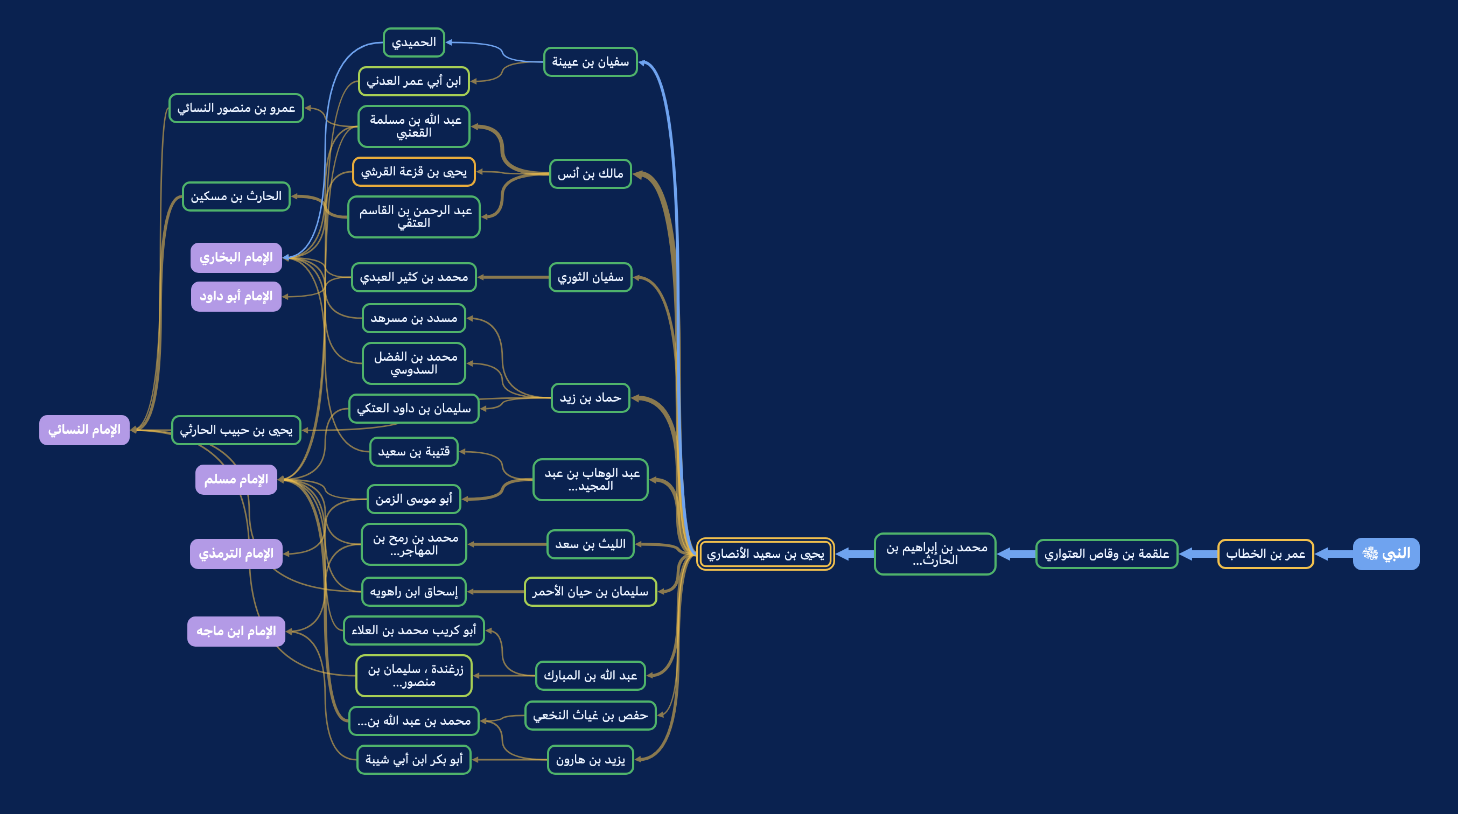
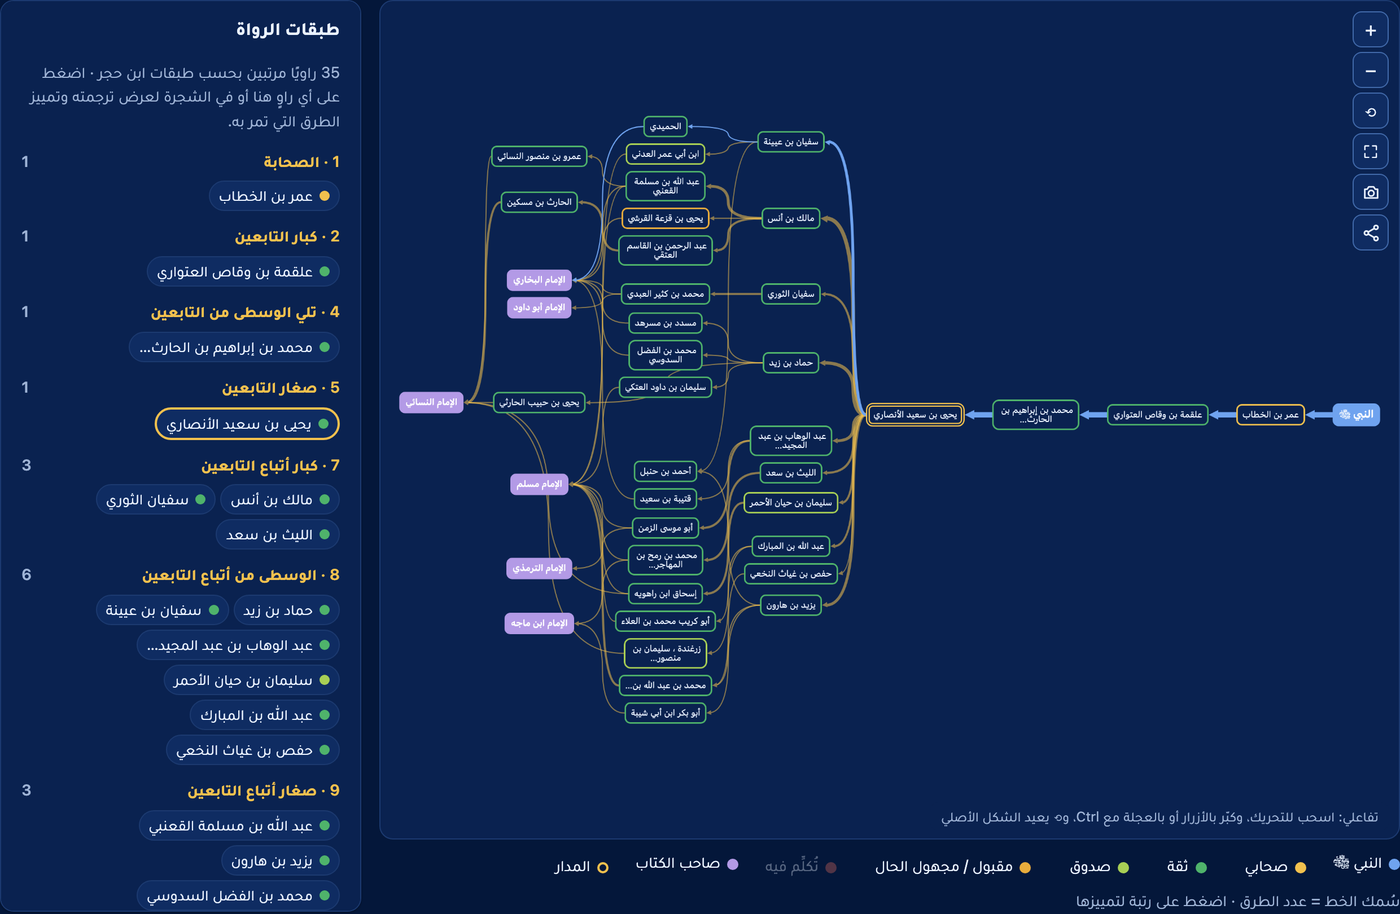
صفحة الهبوط: المزايا في ثلاث مجموعات بالمزايا الجديدة، ومثال حي لأحكام المحدثين، وتحديث المنهج والمصادر والأرقام، وصورة الشجرة بطبقات الرواة، وأصحاب الكتب التسعة في الرسمة

Changed region(s): [[0.0, 0.0, 1.0, 1.0], [0.6143, 0.8907, 1.0, 1.0], [0.9521, 0.0, 1.0, 0.2764]]

diff --git a/site/index.html b/site/index.html
@@ -29,6 +29,7 @@
       <a href="./" class="brand"><svg viewBox="0 0 32 32" aria-hidden="true"><path d="M16 8 8 13M16 8l8 5M8 19l-3 5M8 19l8 5M24 19l-8 5M24 19l3 5"/><circle cx="16" cy="5" r="3"/><circle cx="8" cy="16" r="3"/><circle cx="24" cy="16" r="3"/><circle cx="5" cy="27" r="3"/><circle cx="16" cy="27" r="3"/><circle cx="27" cy="27" r="3"/></svg><span>نور السنة</span></a>
       <nav class="links">
         <a href="#features">المزايا</a>
+        <a href="#grades">الأحكام</a>
         <a href="#how">طريقة الاستخدام</a>
         <a href="#method">المنهج</a>
         <a href="#contact">تواصل</a>
@@ -61,8 +62,8 @@
             <path d="M110 320 C110 350 50 350 50 380"/><path d="M110 320 C110 350 130 350 130 380"/>
             <path d="M210 320 V380"/>
             <path d="M310 320 C310 350 290 350 290 380"/><path d="M310 320 C310 350 370 350 370 380"/>
-            <path d="M50 410 C50 425 130 425 130 436"/><path d="M130 410 V436"/><path d="M210 410 C210 425 130 425 130 436"/>
-            <path d="M290 410 V436"/><path d="M370 410 C370 425 290 425 290 436"/>
+            <path d="M50 410 V436"/><path d="M130 410 V436"/><path d="M210 410 V436"/>
+            <path d="M290 410 V436"/><path d="M370 410 V436"/>
           </g>
           <g class="nodes">
             <rect class="n nabi" x="160" y="14" width="100" height="30" rx="10"/><text x="210" y="34">النبي ﷺ</text>
@@ -73,8 +74,7 @@
             <rect class="n" x="260" y="380" width="60" height="30" rx="10"/><rect class="n" x="340" y="380" width="60" height="30" rx="10"/>
           </g>
           <g class="imams">
-            <rect x="85" y="436" width="90" height="22" rx="8"/><text x="130" y="452">البخاري</text>
-            <rect x="245" y="436" width="90" height="22" rx="8"/><text x="290" y="452">مسلم</text>
+            <rect x="20" y="436" width="380" height="22" rx="8"/><text x="210" y="452">أصحاب الكتب التسعة</text>
           </g>
         </svg>
       </div>
@@ -83,7 +83,7 @@
       <div><b data-k="hadith">62,978</b><span>حديثًا في الكتب التسعة</span></div>
       <div><b data-k="chains">84,817</b><span>إسنادًا مُحلَّلًا</span></div>
       <div><b data-k="narrators">8,671</b><span>راويًا مترجَمًا</span></div>
-      <div><b data-k="companions">825</b><span>صحابيًا وصحابية</span></div>
+      <div><b data-k="companions">817</b><span>صحابيًا وصحابية</span></div>
     </div>
   </section>
 
@@ -91,16 +91,30 @@
     <div class="wrap">
       <h2>ماذا يقدّم لك «نور السنة»؟</h2>
       <p class="lede">كل ما يحتاجه طالب العلم لفهم إسناد الحديث، في مكان واحد، بنقرة واحدة.</p>
+
+      <h3 class="group"><span>1</span>الحديث وطرقه</h3>
       <div class="cards">
-        <article class="card"><div class="ic">🌳</div><h3>شجرة الرواة</h3><p>لكل حديث شجرة تفاعلية من النبي ﷺ إلى أصحاب الكتب التسعة، تجمع كل طرقه فيها.</p></article>
-        <article class="card"><div class="ic">🎯</div><h3>المدار والمتابعات والشواهد</h3><p>يُظهر الراوي الذي تلتقي عنده الطرق ثم تتفرع، ويميّز المتابعات عن الشواهد.</p></article>
-        <article class="card"><div class="ic">📜</div><h3>تراجم الرواة</h3><p>رتبة كل راوٍ عند ابن حجر والذهبي، وطبقته ونسبه ووفاته وبلده، وشيوخه وتلاميذه في الكتب التسعة.</p></article>
-        <article class="card"><div class="ic">⚖</div><h3>رجال الأسانيد</h3><p>وصف كل إسناد بحسب رتب رجاله عند ابن حجر، مع التنبيه على من وُصف بالتدليس أو الاختلاط.</p></article>
-        <article class="card"><div class="ic">📚</div><h3>تخريج الحديث</h3><p>روايات الحديث في كتب السنة وشواهده عن صحابة آخرين، بحسب تخريج برنامج جامع خادم الحرمين الشريفين.</p></article>
-        <article class="card"><div class="ic">📊</div><h3>مؤشرات وإحصاءات</h3><p>الأكثر رواية، وأشهر الأسانيد، وأكثر الرواة مدارًا، وثلاثيات البخاري، وغيرها.</p></article>
+        <a class="card" href="app.html?v=ee47c1b3c5#/h/b1"><div class="ic">🌳</div><h3>شجرة الرواة</h3><p>لكل حديث شجرة تفاعلية من النبي ﷺ إلى أصحاب الكتب التسعة، تجمع كل طرقه، وتُعرض بملء الشاشة، وتُحفظ صورةً بنصّ الحديث أو تُشارك برابطها.</p></a>
+        <a class="card" href="app.html?v=ee47c1b3c5#/h/b1"><div class="ic">🎯</div><h3>المدار والمتابعات والشواهد</h3><p>يُظهر الراوي الذي تلتقي عنده الطرق ثم تتفرع، ويميّز المتابعات عن الشواهد، مع تخريج الحديث في كتب السنة الأخرى.</p></a>
+        <a class="card" href="app.html?v=ee47c1b3c5#/turuq"><div class="ic">🧭</div><h3>الأحاديث الأكثر طرقًا</h3><p>ترتيب أحاديث الكتب التسعة بعدد أسانيدها ومواضعها وصحابتها وانتشارها في الكتب، وأحاديث كل مدار.</p></a>
+      </div>
+
+      <h3 class="group"><span>2</span>الرواة</h3>
+      <div class="cards">
+        <a class="card" href="app.html?v=ee47c1b3c5#/narrators"><div class="ic">📜</div><h3>تراجم الرواة</h3><p>رتبة كل راوٍ عند ابن حجر والذهبي، وطبقته ونسبه ووفاته وبلده، وشيوخه وتلاميذه ومروياته في الكتب التسعة.</p></a>
+        <a class="card" href="app.html?v=ee47c1b3c5#/h/b1"><div class="ic">🪜</div><h3>طبقات الرواة</h3><p>بجانب شجرة كل حديث لوحةٌ ترتّب رواته على طبقات ابن حجر، من الصحابة إلى شيوخ الأئمة، وتميّز الطرق التي تمر بكل راوٍ.</p></a>
+        <a class="card" href="app.html?v=ee47c1b3c5#/explore"><div class="ic">📊</div><h3>ترتيب الرواة ومقارنة الكتب</h3><p>من أكثر التابعين رواية؟ ومن رجال البخاري الذين لم يخرّج لهم مسلم؟ وكم في كل كتاب من حديث بالمكرر وبدونه؟</p></a>
         <article class="card wide"><div class="ic">🔗</div><div><h3>مرويات الطريق</h3><p>اضغط على الصلة بين الراوي وشيخه أو تلميذه في شبكته، فتظهر لك كل الأحاديث التي جاءت بهذا الطريق في الكتب التسعة، مرتّبة ومفصّلة بحسب الكتاب. مثال: ما رواه القاسم بن محمد عن عائشة رضي الله عنها: 232 حديثًا.</p></div>
           <a class="btn ghost" href="app.html?v=ee47c1b3c5#/n/5159/t/3026">جرّب المثال</a></article>
       </div>
+
+      <h3 class="group"><span>3</span>الأسانيد والأحكام</h3>
+      <div class="cards">
+        <a class="card" href="app.html?v=ee47c1b3c5#/h/j224"><div class="ic">⚖</div><h3>أحكام المحدثين</h3><p>حكم الألباني، والأرناؤوط ومحققي طبعة الرسالة، وحسين سليم أسد، والبوصيري، بنصّها منسوبةً إلى كتبها، مع رابطها في المكتبة الشاملة.</p></a>
+        <a class="card" href="app.html?v=ee47c1b3c5#/chains"><div class="ic">🔍</div><h3>رجال الأسانيد</h3><p>وصف كل إسناد بأدنى رتبة في رجاله عند ابن حجر، وأسانيد كل كتاب بحسب هذه الرتبة، مع التنبيه على من وُصف بالتدليس أو الاختلاط.</p></a>
+        <a class="card" href="app.html?v=ee47c1b3c5#/awali"><div class="ic">⭐</div><h3>الثلاثيات وعوالي الأسانيد</h3><p>الأحاديث التي ليس بين المصنف والنبي ﷺ فيها إلا ثلاثة رواة في الكتب التسعة، وثنائيات الموطأ، ورباعيات مسلم والنسائي.</p></a>
+      </div>
+      <p class="also">وأيضًا: <a href="app.html?v=ee47c1b3c5#/isnads">أشهر الأسانيد وأطوالها</a> · <a href="app.html?v=ee47c1b3c5#/tools">أدوات الباحث</a> · <a href="app.html?v=ee47c1b3c5#/">لوحة المؤشرات</a></p>
     </div>
   </section>
 
@@ -110,15 +124,28 @@
         <span class="kicker dark">مثال حي</span>
         <h2>حديث «إنما الأعمال بالنيات»</h2>
         <p>رواه عمر بن الخطاب رضي الله عنه، ثم تفرّد به عنه علقمة، ثم محمد بن إبراهيم التيمي، ثم يحيى بن سعيد الأنصاري، الذي صار <b>مدار الحديث</b> فرواه عنه خلقٌ كثير.</p>
-        <p>كل هذا تراه في شجرة واحدة، وتضغط على أي راوٍ لتقرأ ترجمته.</p>
+        <p>كل هذا تراه في شجرة واحدة، وبجانبها رواتها مرتبين على طبقاتهم، وتضغط على أي راوٍ لتقرأ ترجمته وتميّز الطرق التي تمر به.</p>
         <a class="btn green" href="app.html?v=ee47c1b3c5#/h/b1">افتح شجرة الحديث</a>
       </div>
-      <figure class="shot"><img src="assets/tree.png" alt="شجرة رواة حديث إنما الأعمال بالنيات"></figure>
+      <figure class="shot"><img src="assets/tree.png" alt="شجرة رواة حديث إنما الأعمال بالنيات وطبقات رواتها"></figure>
     </div>
   </section>
 
-  <section class="sec">
+  <section class="sec" id="grades">
     <div class="wrap show rev">
+      <div class="show-text">
+        <span class="kicker dark">أحكام المحدثين</span>
+        <h2>حديث «طلب العلم فريضة على كل مسلم»</h2>
+        <p>رواه ابن ماجه (224). قال البوصيري: <b>إسناده ضعيف</b> لضعف حفص بن سليمان، ونقل كلام السيوطي في تقويته بطرقه. وقال الألباني: <b>صحيح</b> دون قوله «وواضع العلم عند غير أهله…» فإنه ضعيف جدًا.</p>
+        <p>تُعرض الأحكام بنصّها منسوبةً إلى أصحابها وكتبهم، مع رابط كل حكم في المكتبة الشاملة، ورابط للإبلاغ عن أي خطأ فيه.</p>
+        <a class="btn green" href="app.html?v=ee47c1b3c5#/h/j224">افتح الحديث وأحكامه</a>
+      </div>
+      <figure class="shot"><img src="assets/grades.png" alt="حكم البوصيري والألباني على حديث طلب العلم فريضة"></figure>
+    </div>
+  </section>
+
+  <section class="sec alt">
+    <div class="wrap show">
       <div class="show-text">
         <span class="kicker dark">لوحة المؤشرات</span>
         <h2>خريطة الرواية بالأرقام</h2>
@@ -126,7 +153,8 @@
         <ul class="facts" id="facts">
           <li><b data-f="abu_hurayra">8,507</b> حديثًا لأبي هريرة رضي الله عنه في الكتب التسعة</li>
           <li><b data-f="top_isnad">1,246</b> إسنادًا بسلسلة: هشام بن عروة عن أبيه عن عائشة</li>
-          <li><b data-f="thulathiyyat">22</b> حديثًا من ثلاثيات البخاري، أعلى أسانيده</li>
+          <li><b data-f="most_turuq">308</b> إسنادًا لحديث «العجماء جُبار»، أكثر أحاديث الكتب التسعة طرقًا</li>
+          <li><b data-f="thulathiyyat_ahmad">521</b> حديثًا من ثلاثيات أحمد، و<b data-f="thulathiyyat">22</b> من ثلاثيات البخاري</li>
         </ul>
         <a class="btn green" href="app.html?v=ee47c1b3c5#/">استعرض المؤشرات</a>
       </div>
@@ -134,26 +162,26 @@
     </div>
   </section>
 
-  <section class="sec alt" id="how">
+  <section class="sec" id="how">
     <div class="wrap">
       <h2>كيف تستخدمها؟</h2>
       <div class="steps">
         <div class="step"><span>1</span><h3>ابحث أو تصفّح</h3><p>ابحث بكلمة من المتن أو باسم راوٍ، أو تصفّح الكتب التسعة بكتبها وأبوابها.</p></div>
-        <div class="step"><span>2</span><h3>افتح الحديث</h3><p>اقرأ النص بأسماء رواته الملوّنة، وأسانيده وأحكامها، ورواياته الأخرى.</p></div>
-        <div class="step"><span>3</span><h3>استكشف الشجرة</h3><p>تتبّع الطرق، واعرف المدار، واضغط على أي راوٍ لتنتقل إلى ترجمته وشبكته.</p></div>
+        <div class="step"><span>2</span><h3>افتح الحديث</h3><p>اقرأ النص بأسماء رواته الملوّنة، وأحكام المحدثين عليه، وأسانيده ورواياته الأخرى.</p></div>
+        <div class="step"><span>3</span><h3>استكشف الشجرة</h3><p>تتبّع الطرق، واعرف المدار وطبقات الرواة، واضغط على أي راوٍ لتنتقل إلى ترجمته وشبكته.</p></div>
       </div>
     </div>
   </section>
 
-  <section class="sec" id="method">
+  <section class="sec alt" id="method">
     <div class="wrap narrow">
       <h2>المنهج والمصادر</h2>
       <ul class="method">
-        <li>أحاديث الصحيحين صحيحة بحكم الشيخين وتلقّي الأمة لهما بالقبول. وأحاديث السنن والمسانيد والموطأ فيها الصحيح والحسن والضعيف، فيُعرض حكم الترمذي بلفظه حيث ورد، ويُحال إلى أحكام المحدثين في الدرر السنية.</li>
+        <li>أحاديث الصحيحين صحيحة بحكم الشيخين وتلقّي الأمة لهما بالقبول. وأحاديث السنن والمسانيد والموطأ فيها الصحيح والحسن والضعيف، فيُعرض حكم الترمذي بلفظه حيث ورد، وأحكام المحدثين بنصّها منسوبةً إليهم: الألباني على السنن الأربع، وشعيب الأرناؤوط ومحققو طبعة الرسالة على مسند أحمد، ومحققو طبعة الرسالة العالمية على النسائي، وحسين سليم أسد على الدارمي، والبوصيري على زوائد ابن ماجه. وهي اجتهاد أصحابها، وقد يكون الحكم على الإسناد خاصة والحديث ثابت من طريق آخر.</li>
         <li>وصف رجال كل إسناد بحسب رتبهم عند ابن حجر بيانٌ لحال الرجال، لا حكمٌ على الحديث.</li>
         <li>رتب الرواة منسوبة إلى أصحابها: الحافظ ابن حجر في «تقريب التهذيب»، والحافظ الذهبي.</li>
         <li>المدار وتجميع الروايات محسوبان آليًا، فالأداة مساعِدة للباحث ولا تُغني عن النظر والتخريج.</li>
-        <li>مصدر البيانات: <b>برنامج جامع خادم الحرمين الشريفين للسنة النبوية</b> (الرئاسة العامة للبحوث العلمية والإفتاء)، وفهرس الكتب الكبرى للسنن والمسانيد والموطأ من <b>المكتبة الشاملة</b>، وأحكام المحدثين روابط إلى الموسوعة الحديثية في <b>الدرر السنية</b>. والشيفرة مفتوحة على GitHub.</li>
+        <li>مصدر البيانات: <b>برنامج جامع خادم الحرمين الشريفين للسنة النبوية</b> (الرئاسة العامة للبحوث العلمية والإفتاء)، وفهرس الكتب الكبرى للسنن والمسانيد والموطأ من <b>المكتبة الشاملة</b>، وأحكام المحدثين من طبعات كتبهم في <b>المكتبة الشاملة</b> مطابَقةً بالنص، مع روابط إلى الموسوعة الحديثية في <b>الدرر السنية</b> لأحكام أخرى. والشيفرة مفتوحة على GitHub.</li>
       </ul>
     </div>
   </section>
@@ -182,7 +210,7 @@
         const v = { hadith: T.hadith, chains: T.chains, narrators: T.narrators, companions: T.companions };
         document.querySelectorAll("#stats b[data-k]").forEach((b) => { b.textContent = fmt(v[b.dataset.k]); });
         const top = (rows) => (rows && rows[0] ? rows[0][1] : null);
-        const f = { abu_hurayra: top(S.top_companions), top_isnad: top(S.top_isnads), thulathiyyat: T.thulathiyyat };
+        const f = { abu_hurayra: top(S.top_companions), top_isnad: top(S.top_isnads), thulathiyyat: T.thulathiyyat, thulathiyyat_ahmad: T.thulathiyyat_ahmad, most_turuq: S.most_turuq && S.most_turuq[0] ? S.most_turuq[0].n_chains : null };
         document.querySelectorAll("#facts b[data-f]").forEach((b) => { if (f[b.dataset.f] != null) b.textContent = fmt(f[b.dataset.f]); });
       }).catch(() => {});
       document.getElementById("search").addEventListener("submit", (e) => {

diff --git a/site/landing.css b/site/landing.css
@@ -179,3 +179,12 @@ h3 { font-family: var(--font-title); font-size: 1.15rem; }
   * { -webkit-print-color-adjust: exact; print-color-adjust: exact; }
   .print-note { display: block; margin-top: 6px; }
 }
+
+/* feature groups: a numbered heading over each row of cards */
+.group { display: flex; align-items: center; gap: 12px; color: var(--gold); font-size: 1.35rem; margin: 40px 0 18px; }
+.group:first-of-type { margin-top: 0; }
+.group span { display: grid; place-items: center; width: 34px; height: 34px; border-radius: 50%; border: 1.5px solid rgba(242,193,78,.6); font-size: 1rem; }
+.group::after { content: ""; flex: 1; height: 1px; background: linear-gradient(to left, rgba(242,193,78,.35), transparent); }
+a.card { display: block; text-decoration: none; color: inherit; }
+.also { text-align: center; margin: 30px 0 0; color: var(--text-muted); }
+.also a { color: var(--gold); text-decoration: none; border-bottom: 1px dotted rgba(242,193,78,.6); }
